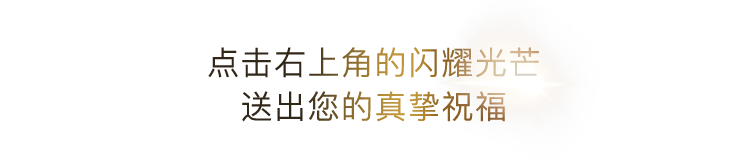
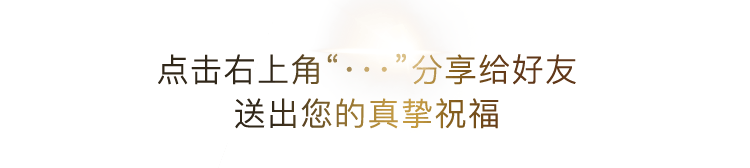
update rule content and change share image

Changed region(s): [[0.2147, 0.2679, 0.7667, 0.506], [0.3067, 0.5357, 0.6747, 0.7738]]

diff --git a/template/site/index.tpl.php b/template/site/index.tpl.php
@@ -162,8 +162,8 @@
     <div class="inner">
         <div class="pcontent">
             <h3>【活动详情】</h3>
-            <p>1.活动时间：2016.12.5-2016.12.26。</p>
-            <p>2.活动奖品：FURLA 时尚钥匙扣及300元现金礼券。</p>
+            <p>1.活动时间：2016年12月5日至12月26日。</p>
+            <p>2.活动奖品：FURLA 钥匙扣或300元现金礼券。</p>
             <p>3.参与方式：每次为朋友送出祝福即可获得一次抽奖机会，获得祝福的朋友也可参与本次抽奖。</p>
             <h3 class="t2">【活动条款】</h3>
             <p>1.本次活动只限中国大陆地区参与，敬请谅解。</p>
@@ -172,9 +172,9 @@
             <p>4.FURLA有权更改相同价值的礼物，恕不另行通知。</p>
             <p>5.FURLA的内部员工不能参与本次活动。</p>
             <p>6.礼券有效期至2017年1月31日。</p>
-            <p>7.顾客需购买正价货品净值满¥2,000,方能使用一张¥300礼劵。</p>
-            <p>8.礼劵只能于FURLA中国直营店使用。</p>
-            <p>9.礼劵所有使用条款详载于优惠劵上。</p>
+            <p>7.顾客需购买正价货品净值满¥2,000,方能使用一张¥300现金礼劵。</p>
+            <p>8.现金礼劵只能于FURLA中国直营店使用。</p>
+            <p>9.现金礼劵所有使用条款详载于优惠劵上。</p>
             <p>10.本活动的最终解释权归FURLA孚丰商贸（上海）有限公司所有。</p>
         </div>
         <div class="btn-close"></div>
